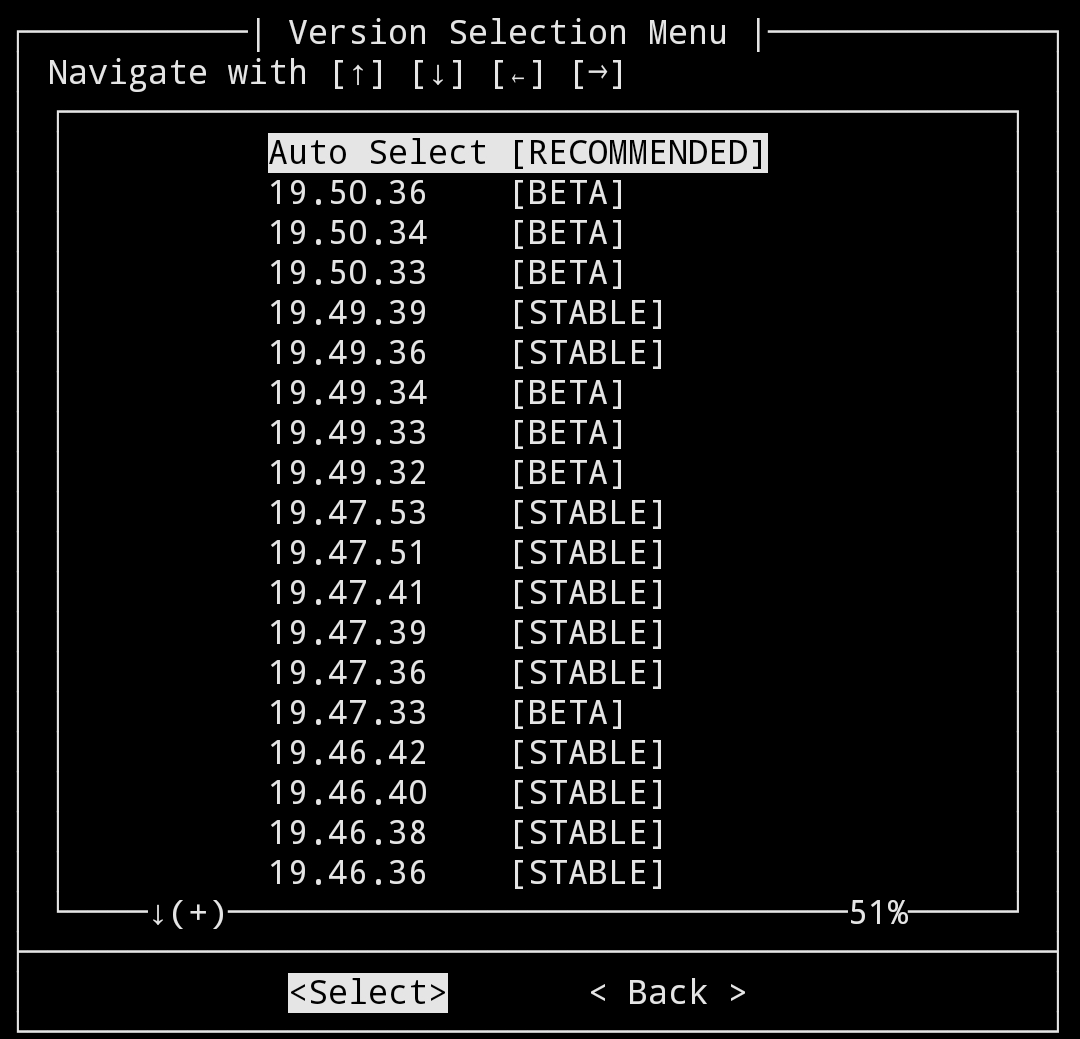
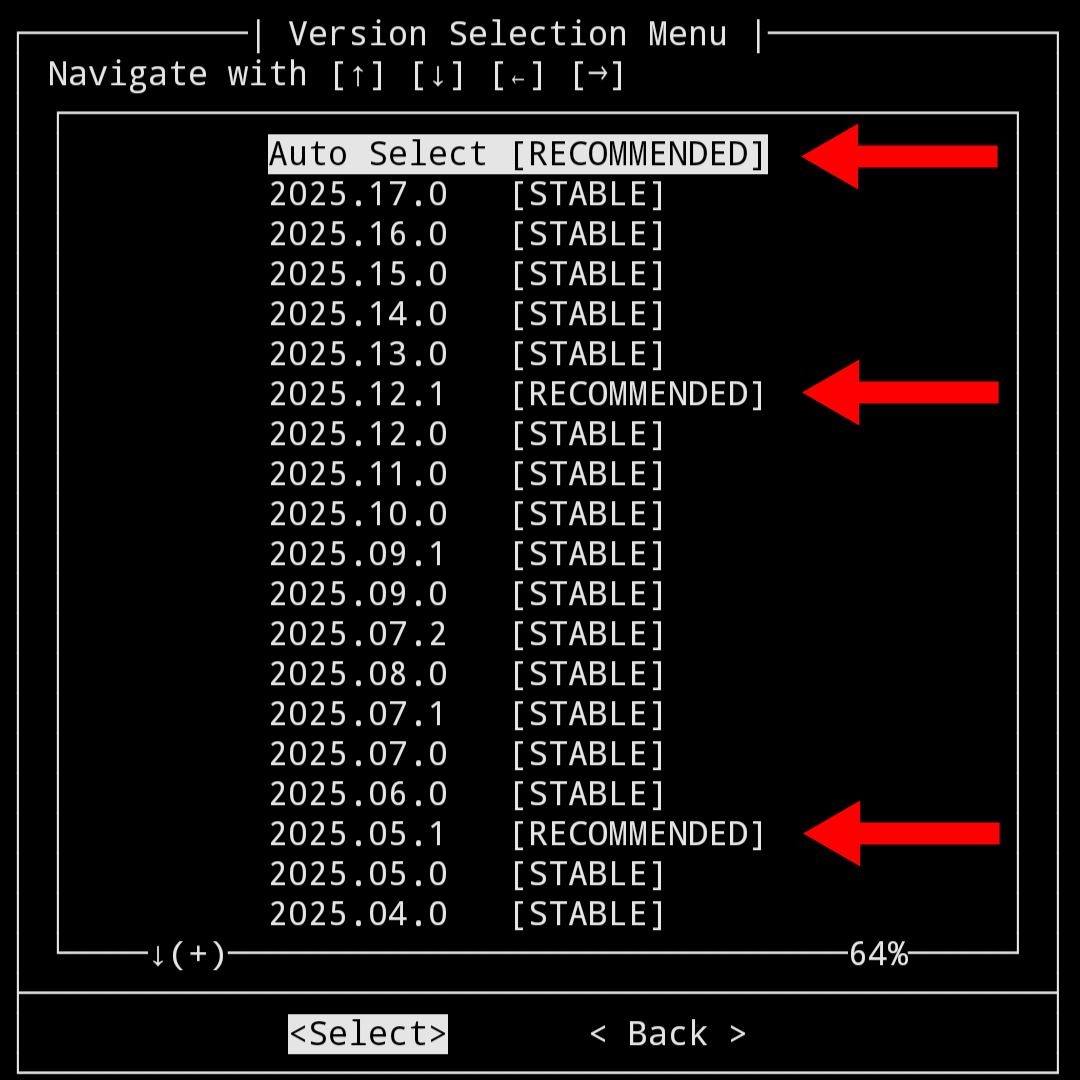
revancify: Update auto-download information

diff --git a/docs/revancify.md b/docs/revancify.md
@@ -40,8 +40,8 @@ Patching
 
 <img src="/images/revancify_2.png" alt="revancify_2" width="400"/>
 
-> [!NOTE]
-> If the download feature doesn't work, follow the steps on [this page](https://github.com/inotia00/revanced-documentation/blob/main/docs/supplying-an-apk.md). Then, move the APK you downloaded into `Internal storage > Revancify > Stock`. Then, return to Revancify and press `Import` to import the APK you placed in the `Stock` directory.
+> [!IMPORTANT]
+> If there is no `Auto Select` or `[RECOMMENDED]` option, follow the steps on [this page](https://github.com/inotia00/revanced-documentation/blob/main/docs/supplying-an-apk.md). Then, move the APK you downloaded into `Internal storage/Revancify/Stock`. Then, return to Revancify and press `Import` to import the APK you placed in the `Stock` directory.
 >
 > <img src="/images/revancify_3.png" alt="revancify_3" width="400"/>
 
